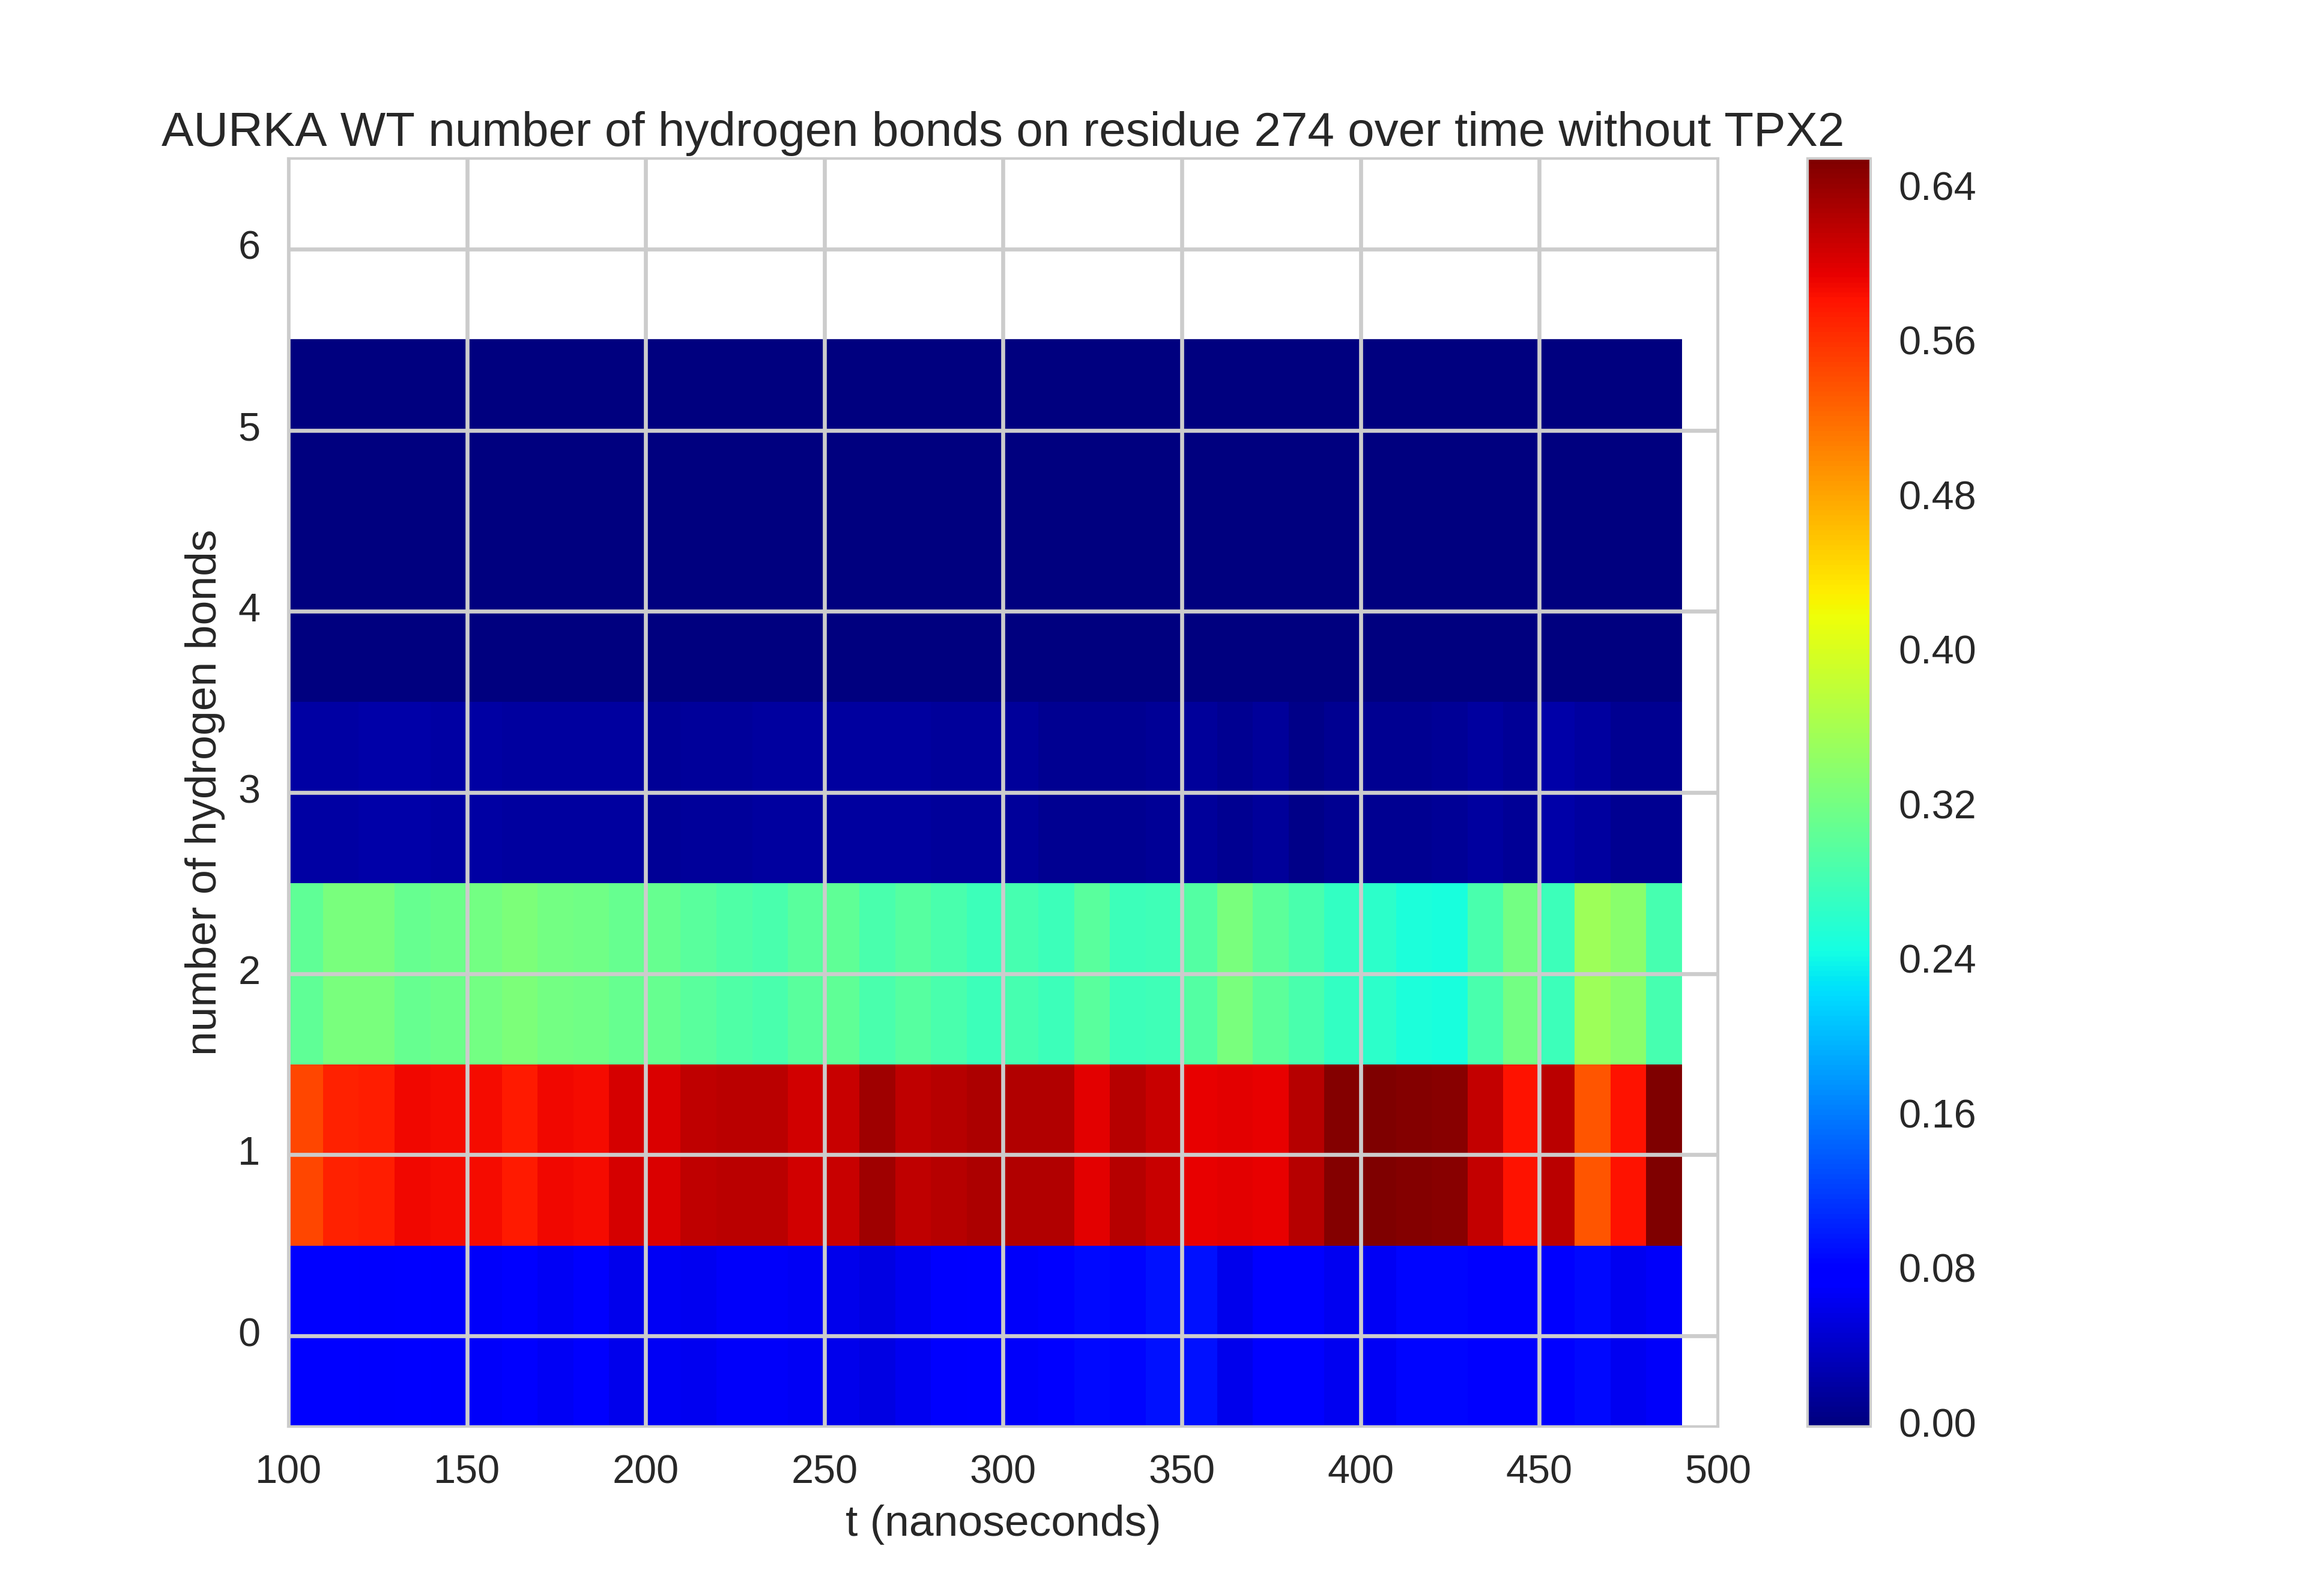
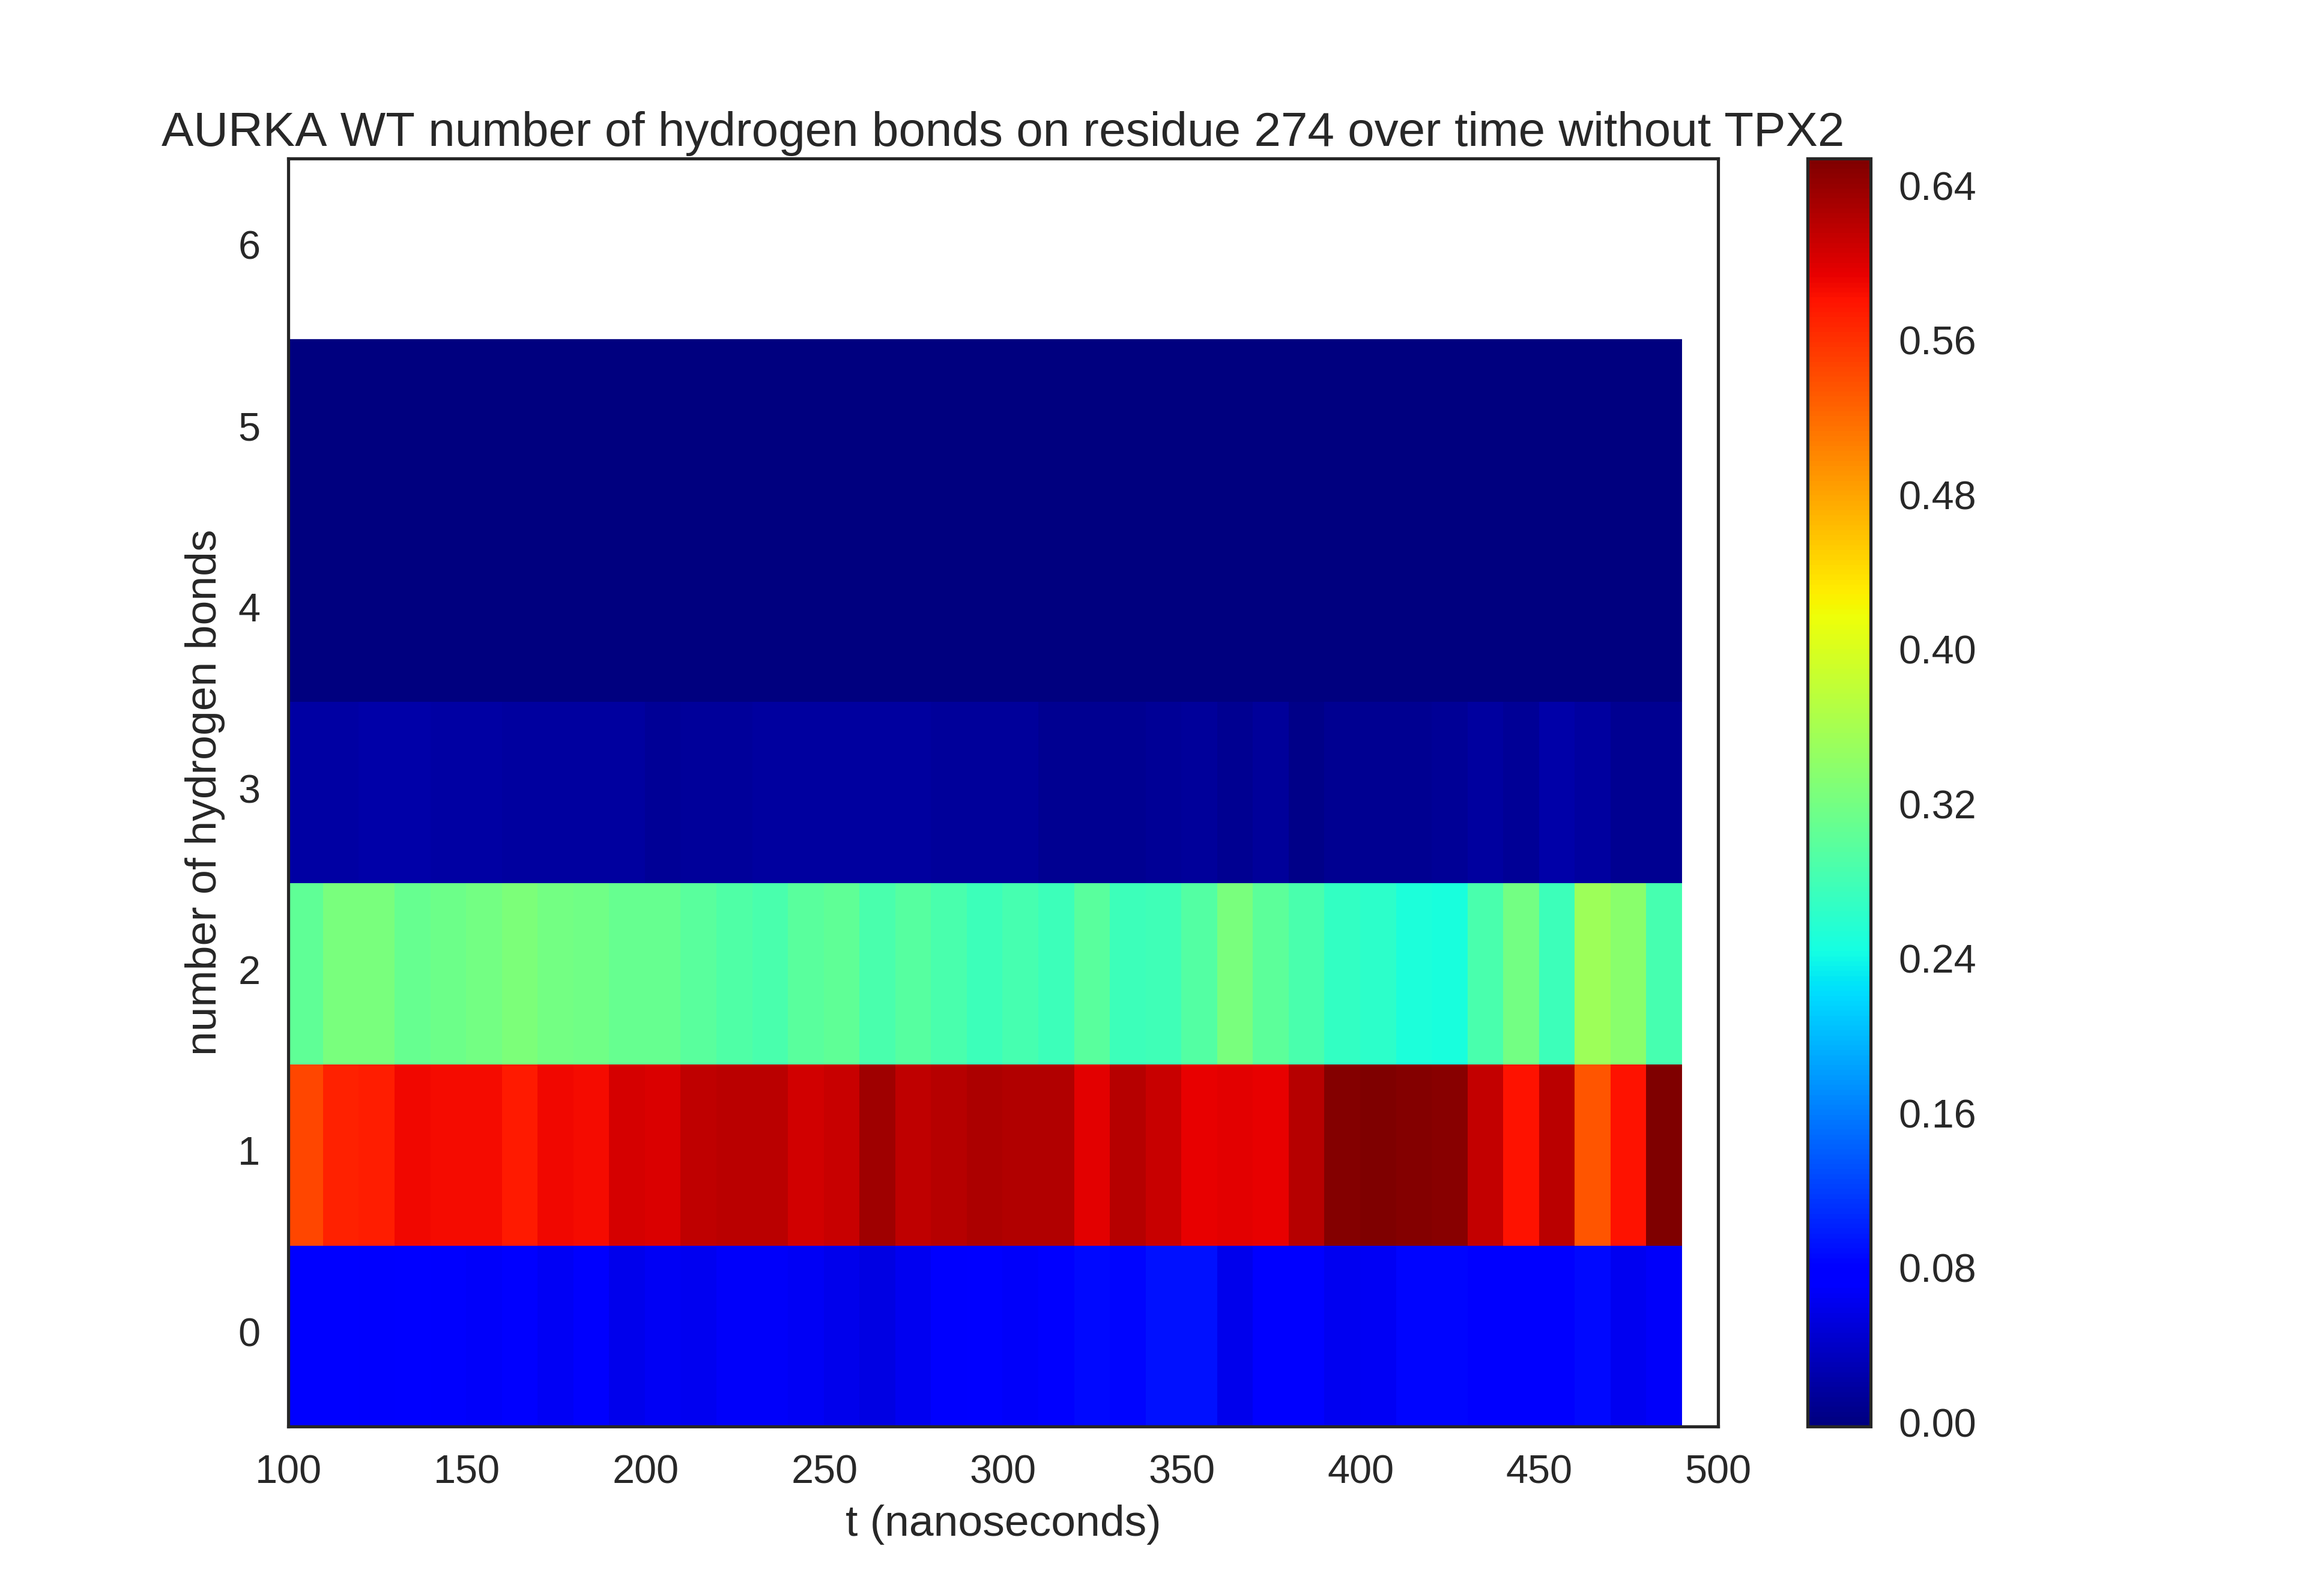
Adjusting scripts for all runs to also plot probabilities

diff --git a/hbonds_2dhists.py b/hbonds_2dhists.py
@@ -8,7 +8,7 @@ from matplotlib.pyplot import cm
 import seaborn as sns
 import os
 
-sns.set_style("whitegrid")
+sns.set_style("white")
 sns.set_context("poster")
 
         # make plots of all data past t = 250ns
@@ -39,28 +39,29 @@ for entry in run_index.split('\n'):
 bin_x = np.arange(offset/4,500,10) - 0.25
 bin_y = np.arange(7) - 0.5
 
-def plot_2dhist(residue, x_axis, hbond_count, run, project):
-    print('Now plotting residue %s from %s RUN%s' % (residue, project, run))
+def plot_2dhist(residue, x_axis, hbond_count, weights, run, project):
     fig1 = plt.figure()
-    plt.hist2d(x_axis[hbond_count > -1],hbond_count[hbond_count > -1],bins=[bin_x,bin_y],cmap=plt.get_cmap('jet'))
+    plt.hist2d(x_axis[hbond_count > -1],hbond_count[hbond_count > -1],bins=[bin_x,bin_y],weights=weights[hbond_count > -1],cmap=plt.get_cmap('jet'))
     plt.title('AURKA %s number of hydrogen bonds on residue %s over time %s' % (mutant['RUN%s' % run], residue, system[project]))
     plt.ylabel('number of hydrogen bonds')
     plt.xlabel('t (nanoseconds)')
     plt.colorbar()
     plt.axis([offset/4,500,-0.5,6.5])
-    if residue != reference:
-        residue = str(residue)+'-possible-W1-W2'
     plt.savefig("./plots/AURKA-%s-hbonds-hist2d-entire-traj-%s-RUN%s" % (residue, project, run),dpi=300)
     plt.close(fig1)
+    print('Saved ./plots/AURKA-%s-hbonds-hist2d-entire-traj-%s-RUN%s.png' % (residue, project, run))
 
 def count_and_plot_res_bonds(residue, HB_res_total,compare_to=None):
     hbond_count = np.zeros((50,2000-offset)) - 1
     x_axis = np.zeros((50,2000-offset))
+    weights = np.zeros((50,2000-offset))
+    column_count = np.zeros(bin_x.shape)
     for clone, traj in enumerate(HB_res_total):
         for index in range(offset,2000):
             if compare_to is None:
                 try:
                     hbond_count[clone][index-offset] = traj[index].shape[0]
+                    column_count[(index-offset-0.25)/40] += 1
                 except:
                     pass
             else:
@@ -73,12 +74,17 @@ def count_and_plot_res_bonds(residue, HB_res_total,compare_to=None):
                             bond[2] in reference_acceptors or bond[0] in reference_acceptors):
                             count += 1
                     hbond_count[clone][index-offset] = count
+                    column_count[(index-offset-0.25)/40] += 1
                 except:
                     pass
             x_axis[clone][index-offset] = index*0.25
+    for clone, traj in enumerate(HB_res_total):
+        for index in range(offset,2000):
+            weights[clone][index-offset] = 1.00 / column_count[(index-offset-0.25)/40]
     x_axis = x_axis.flatten()
     hbond_count = hbond_count.flatten()
-    plot_2dhist(residue, x_axis, hbond_count, run, project)
+    weights = weights.flatten()
+    plot_2dhist(residue, x_axis, hbond_count, weights, run, project)
 
 for i, project in enumerate(projects):
     project_dir = project_dirs[project]

diff --git a/search_for_W1_W2.py b/search_for_W1_W2.py
@@ -8,7 +8,7 @@ from matplotlib.pyplot import cm
 import seaborn as sns
 import os
 
-sns.set_style("whitegrid")
+sns.set_style("white")
 sns.set_context("poster")
 
         # make plots of all data past t = 250ns
@@ -39,10 +39,9 @@ for entry in run_index.split('\n'):
 bin_x = np.arange(offset/4,500,10) - 0.25
 bin_y = np.arange(7) - 0.5
 
-def plot_2dhist(residue, x_axis, hbond_count, run, project):
-    print('Now plotting residue %s from %s RUN%s' % (residue, project, run))
+def plot_2dhist(residue, x_axis, hbond_count, weights, run, project):
     fig1 = plt.figure()
-    plt.hist2d(x_axis[hbond_count > -1],hbond_count[hbond_count > -1],bins=[bin_x,bin_y],cmap=plt.get_cmap('jet'))
+    plt.hist2d(x_axis[hbond_count > -1],hbond_count[hbond_count > -1],bins=[bin_x,bin_y],weights=weights[hbond_count > -1],cmap=plt.get_cmap('jet'))
     plt.title('AURKA %s number of hydrogen bonds on residue %s over time %s' % (mutant['RUN%s' % run], residue, system[project]))
     plt.ylabel('number of hydrogen bonds')
     plt.xlabel('t (nanoseconds)')
@@ -52,15 +51,19 @@ def plot_2dhist(residue, x_axis, hbond_count, run, project):
         residue = str(residue)+'-possible-W1-W2'
     plt.savefig("./plots/AURKA-%s-hbonds-hist2d-entire-traj-%s-RUN%s" % (residue, project, run),dpi=300)
     plt.close(fig1)
+    print('Saved ./plots/AURKA-%s-hbonds-hist2d-entire-traj-%s-RUN%s.png' % (residue, project, run))
 
 def count_and_plot_res_bonds(residue, HB_res_total,compare_to=None):
     hbond_count = np.zeros((50,2000-offset)) - 1
     x_axis = np.zeros((50,2000-offset))
+    weights = np.zeros((50,2000-offset))
+    column_count = np.zeros(bin_x.shape)
     for clone, traj in enumerate(HB_res_total):
         for index in range(offset,2000):
             if compare_to is None:
                 try:
                     hbond_count[clone][index-offset] = traj[index].shape[0]
+                    column_count[(index-offset-0.25)/40] += 1
                 except:
                     pass
             else:
@@ -73,12 +76,17 @@ def count_and_plot_res_bonds(residue, HB_res_total,compare_to=None):
                             bond[2] in reference_acceptors or bond[0] in reference_acceptors):
                             count += 1
                     hbond_count[clone][index-offset] = count
+                    column_count[(index-offset-0.25)/40] += 1
                 except:
                     pass
             x_axis[clone][index-offset] = index*0.25
+    for clone, traj in enumerate(HB_res_total):
+        for index in range(offset,2000):
+            weights[clone][index-offset] = 1.00 / column_count[(index-offset-0.25)/40]
     x_axis = x_axis.flatten()
     hbond_count = hbond_count.flatten()
-    plot_2dhist(residue, x_axis, hbond_count, run, project)
+    weights = weights.flatten()
+    plot_2dhist(residue, x_axis, hbond_count, weights, run, project)
 
 for i, project in enumerate(projects):
     project_dir = project_dirs[project]

diff --git a/salt_bridge_2dhists.py b/salt_bridge_2dhists.py
@@ -31,16 +31,21 @@ for entry in run_index.split('\n'):
     except:
         pass
 
-def plot_2dhist(bridge, x_axis, minimum_distance, run, project):
+offset = 400
+bin_x = np.arange(offset/4,500,10) - 0.25
+bin_y = np.arange(20) * 0.02 + 0.25
+
+def plot_2dhist(bridge, x_axis, minimum_distance, weights, run, project):
     fig1 = plt.figure()
-    plt.hist2d(x_axis[minimum_distance > 0],minimum_distance[minimum_distance > 0],bins=[100,20],cmap=plt.get_cmap('jet'))
+    plt.hist2d(x_axis[minimum_distance > 0],minimum_distance[minimum_distance > 0],bins=[bin_x,bin_y],weights=weights[minimum_distance > 0],cmap=plt.get_cmap('jet'))
     plt.title('AURKA %s minimum %s salt bridge distance over time %s' % (mutant['RUN%s' % run], bridge, system[project]))
     plt.ylabel('distance r (nanometers) between residues %s and %s' % (bridge.split('-')[0], bridge.split('-')[1]))
     plt.xlabel('t (nanoseconds)')
     plt.colorbar()
-    plt.axis([0,500,0.25,0.65])
+    plt.axis([offset/4,500,0.25,0.65])
     plt.savefig("./plots/AURKA-salt-bridge-%s-hist2d-entire-traj-%s-RUN%s" % (bridge, project, run),dpi=300)
     plt.close(fig1)
+    print('Saved ./plots/AURKA-salt-bridge-%s-hist2d-entire-traj-%s-RUN%s.png' % (bridge, project, run))
 
 for i, project in enumerate(projects):
     project_dir = project_dirs[project]
@@ -52,13 +57,19 @@ for i, project in enumerate(projects):
 
             minimum_distance = np.zeros((50,2000))
             x_axis = np.zeros((50,2000))
+            weights = np.zeros((50,2000-offset))
+            column_count = np.zeros(bin_x.shape)
             for clone, traj in enumerate(SB_total):
-                for index in range(2000):
+                for index in range(offset, 2000):
                     try:
-                        minimum_distance[clone][index] = traj[index]
+                        minimum_distance[clone][index-offset] = traj[index]
+                        column_count[(index-offset-0.25)/40] += 1
                     except:
                         pass
                     x_axis[clone][index] = index*0.25
+            for clone, traj in enumerate(SB_total):
+                for index in range(offset,2000):
+                    weights[clone][index-offset] = 1.00 / column_count[(index-offset-0.25)/40]
             x_axis = x_axis.flatten()
             minimum_distance = minimum_distance.flatten()
             plot_2dhist(bridge, x_axis, minimum_distance, run, project)

diff --git a/RUN0_hbonds_2dhists.py b/RUN0_hbonds_2dhists.py
@@ -8,7 +8,7 @@ from matplotlib.pyplot import cm
 import seaborn as sns
 import os
 
-sns.set_style("whitegrid")
+sns.set_style("white")
 sns.set_context("poster")
 
         # make plots of all data past t = 250ns

diff --git a/RUN0_search_for_W1_W2.py b/RUN0_search_for_W1_W2.py
@@ -8,7 +8,7 @@ from matplotlib.pyplot import cm
 import seaborn as sns
 import os
 
-sns.set_style("whitegrid")
+sns.set_style("white")
 sns.set_context("poster")
 
         # make plots of all data past t = 250ns
